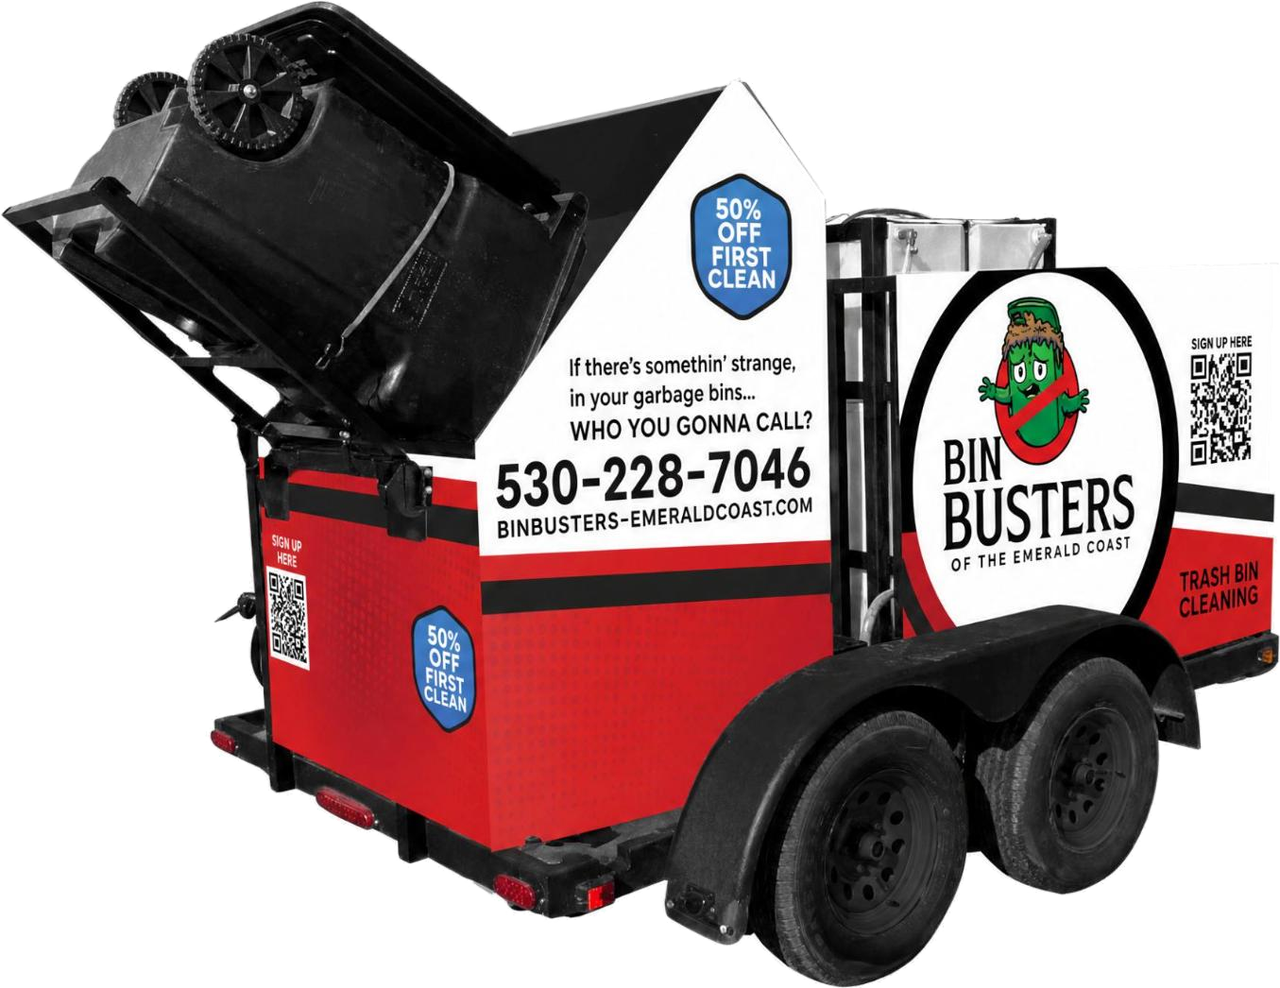
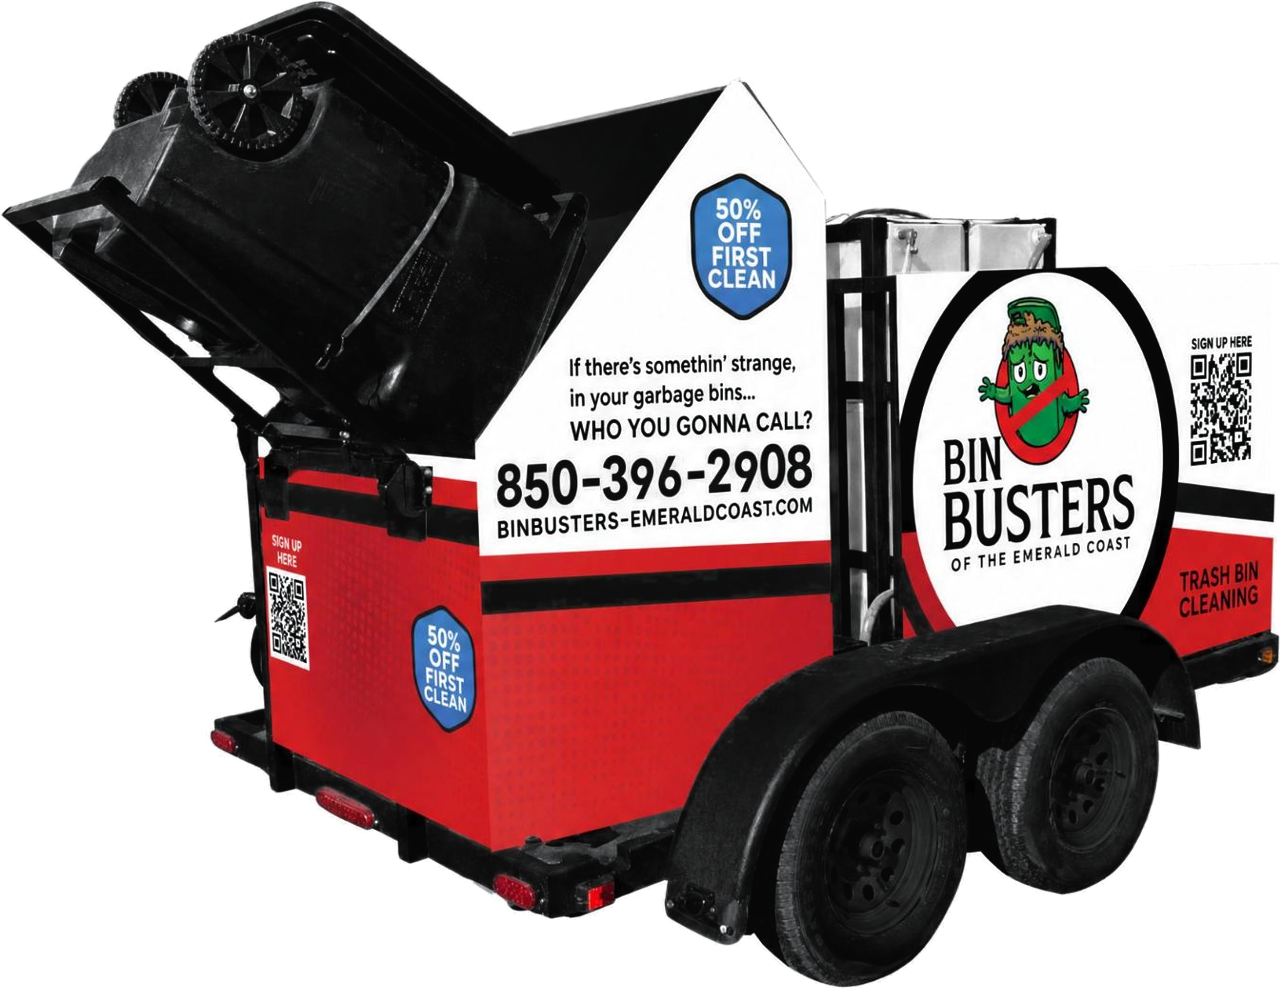
Show 850-396-2908 on the hero trailer and make it look newer
The trailer photo still showed the old (530) 228-7046 number. The digits
are rebuilt from the photo's own lettering, and the blacks and tires are
deepened so the trailer looks clean.

Claude-Session: https://claude.ai/code/session_01M9RXcp8xChUcmfa7M1dpZB

diff --git a/scripts/trailer-swap-number.py b/scripts/trailer-swap-number.py
@@ -1,0 +1,59 @@
+import sys, numpy as np, cv2
+from PIL import Image
+from scipy import ndimage
+src, out = sys.argv[1], sys.argv[2]
+im = np.array(Image.open(src).convert('RGBA'))
+rgb = im[:,:,:3].astype(np.float32)
+x0,y0,x1,y1 = 490,440,820,507
+gray = rgb[...,:].mean(2)
+reg = gray[y0:y1,x0:x1]
+lab,n = ndimage.label(reg<140)
+comps=[]
+for i,sl in enumerate(ndimage.find_objects(lab)):
+    a=(lab[sl]==i+1).sum()
+    if a>100: comps.append((sl[1].start+x0, sl[0].start+y0, sl[1].stop+x0, sl[0].stop+y0, i+1))
+comps.sort()
+assert len(comps)==12, comps
+P=3
+# ink alpha 0..1 relative to paper/ink levels
+paper = np.median(gray[440:445,490:820]); inkv = np.percentile(reg,1)
+print('paper',paper,'ink',inkv)
+def glyph(c, rot=False):
+    gx0,gy0,gx1,gy1,_=c
+    g = gray[gy0-P:gy1+P, gx0-P:gx1+P]
+    a = np.clip((paper-g)/(paper-inkv),0,1)
+    if rot: a = a[::-1,::-1]
+    return a
+old = "530-228-7046"; new = "850-396-2908"
+pick = {}
+for ch,c in zip(old,comps): pick.setdefault(ch,c)
+# area to clear: union of all digit boxes, padded
+mask = np.zeros(gray.shape,np.uint8)
+for c in comps:
+    gx0,gy0,gx1,gy1,_=c; mask[gy0-P:gy1+P, gx0-P:gx1+P]=255
+# keep the URL line below safe: only clear pixels darker than threshold-ish plus dilation
+inkmask = ((gray<200)&(mask>0)).astype(np.uint8)*255
+inkmask = cv2.dilate(inkmask,np.ones((5,5),np.uint8))
+inkmask &= mask
+bgr = cv2.cvtColor(im[:,:,:3],cv2.COLOR_RGB2BGR)
+clean = cv2.inpaint(bgr,inkmask,5,cv2.INPAINT_TELEA)
+clean = cv2.cvtColor(clean,cv2.COLOR_BGR2RGB).astype(np.float32)
+# ink colour
+inkcol = np.median(rgb[y0:y1,x0:x1][reg<inkv+15],axis=0)
+for ch_old,ch_new,slot in zip(old,new,comps):
+    if ch_old==ch_new:
+        a = glyph(slot)
+    elif ch_new=='9':
+        a = glyph(pick['6'],rot=True)
+    else:
+        a = glyph(pick[ch_new])
+    sx0,sy0,sx1,sy1,_=slot
+    cx=(sx0+sx1)/2; by=sy1  # align bottom, centre horizontally
+    if ch_new=='9': by = sy1  # 9 has same height as 6
+    h,w=a.shape
+    tx=int(round(cx-w/2)); ty=int(round(by+P-h))
+    region = clean[ty:ty+h, tx:tx+w]
+    A=a[...,None]
+    clean[ty:ty+h, tx:tx+w] = region*(1-A)+inkcol*A
+res = im.copy(); res[:,:,:3]=np.clip(clean,0,255).astype(np.uint8)
+Image.fromarray(res).save(out, optimize=True)

diff --git a/scripts/trailer-deepen-blacks.py b/scripts/trailer-deepen-blacks.py
@@ -1,0 +1,31 @@
+import sys, numpy as np, cv2
+from PIL import Image
+im = np.array(Image.open(sys.argv[1]).convert('RGBA'))
+rgb = im[:,:,:3].astype(np.float32)/255
+hsv = cv2.cvtColor(im[:,:,:3], cv2.COLOR_RGB2HSV).astype(np.float32)
+s = hsv[...,1]/255; v = hsv[...,2]/255
+lum = (rgb*[0.299,0.587,0.114]).sum(2)
+# weight: neutral and darkish
+w = np.clip((0.30-s)/0.12,0,1) * np.clip((0.68-v)/0.12,0,1)
+# protect stainless tank except near-black frame
+tank = np.zeros(v.shape,bool); tank[195:640,815:1075]=True
+w[tank & (v>0.32)] = 0
+# protect white wrap panel text region? keep (darkening text is fine)
+w = cv2.GaussianBlur(w,(0,0),1.2)
+# local contrast on luminance
+L = (lum*255).astype(np.uint8)
+clahe = cv2.createCLAHE(clipLimit=2.0,tileGridSize=(16,16))
+Lc = clahe.apply(L).astype(np.float32)/255
+Lm = 0.6*lum+0.4*Lc
+# tone curve: deep blacks, keep specular
+t = np.clip(Lm,0,1)
+newL = 0.03 + 0.97*np.power(t,1.75)
+# gloss: lift top highlights slightly
+newL = newL + 0.15*np.clip((t-0.55)/0.25,0,1)*t
+out_dark = np.repeat(newL[...,None],3,2)
+# tiny cool tint like new rubber/paint
+out_dark = out_dark*np.array([0.97,0.985,1.0])
+W = w[...,None]
+res = rgb*(1-W)+out_dark*W
+o = im.copy(); o[:,:,:3] = np.clip(res*255,0,255).astype(np.uint8)
+Image.fromarray(o).save(sys.argv[2], optimize=True)

diff --git a/CLAUDE.md b/CLAUDE.md
@@ -15,10 +15,11 @@
 - 2026-11-16: Matthew asked for a service-area map shaped like the Emerald Coast, as on his Gateway Payments site (`Revvitapps/gateway-pitch`). `components/service-map.tsx` draws the real coastline (GSHHS full resolution via `pip install basemap basemap-data-hires`, since Census/OSM hosts are blocked from the sandbox) with Census county lines; regenerate with `scripts/build-service-map.py`. It sits in the dark "Where we clean" section (home and town pages, current town in red) and on `/service-areas`.
 - 2026-11-09: Booking still finishes in Jobber (Jarrett's existing client hub). The funnel captures the request first (`/api/pipeline`) and offers a prefilled text to Jarrett so no lead depends on a backend.
 - 2026-11-16: Quick booking. A "Book now in Jobber" card (`components/quick-book.tsx`) sits under the plans on home and `/pricing` (hero links to it) and on step 1 of `/book`. One tap opens Jobber and posts a `quick` lead (name and contact optional) so Jarrett gets a heads-up email. The last `/book` step now leads with "Finish booking in Jobber"; text and call are the fallback. `app/favicon.ico` is generated from the mascot by `npm run icons`.
+- 2026-11-18: The hero trailer photo now reads 850-396-2908. The digits were rebuilt from the photo's own glyphs (a 9 is the 6 turned over), and the blacks and tires were deepened so it looks newer. See `scripts/trailer-swap-number.py` and `scripts/trailer-deepen-blacks.py` (run in that order on the 530 original from git history); the AI-made 850 version on static.magica.com could not be downloaded.
 - 2026-11-16: DNS switched; the site is live on Vercel. Lead email goes through Jarrett's own Resend account (domain verified, sender leads@binbusters-emeraldcoast.com) to jarrett@binbusters-emeraldcoast.com; a live test lead arrived. Old values for rollback: `A @ 162.159.140.166`, `CNAME www sites.ludicrous.cloud`. New: `A @ 216.150.1.1`, `CNAME www cc53ae1b859741ae.vercel-dns-016.com`.
 
 ### Open questions for Jarrett
-1. Logo/mascot/photos: confirmed OK (Matthew, 2026-11-09). The trailer wrap shows (530) 228-7046, not (850) 396-2908: which number is current? Any new photos of his own?
+1. Logo/mascot/photos: confirmed OK (Matthew, 2026-11-09). The trailer photo now shows (850) 396-2908 (edited 2026-11-18); does the real wrap still say (530)? Any new photos of his own?
 2. Where should web leads go: email (which address), text, or straight into Jobber?
 3. Does he offer anything for multiple rentals, HOAs or commercial dumpsters beyond the standard prices?
 4. Are all ZIPs in `content/site.ts` (`serviceZips`) right, and any to add?
